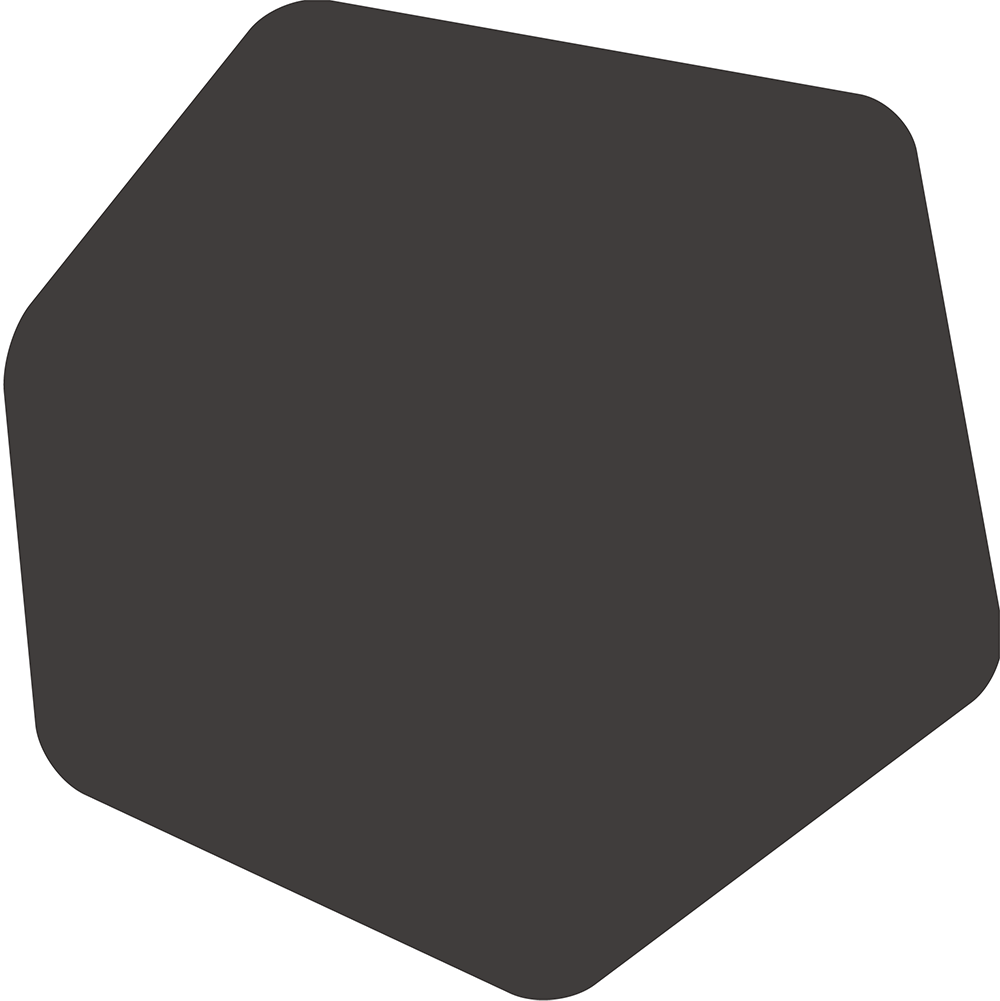
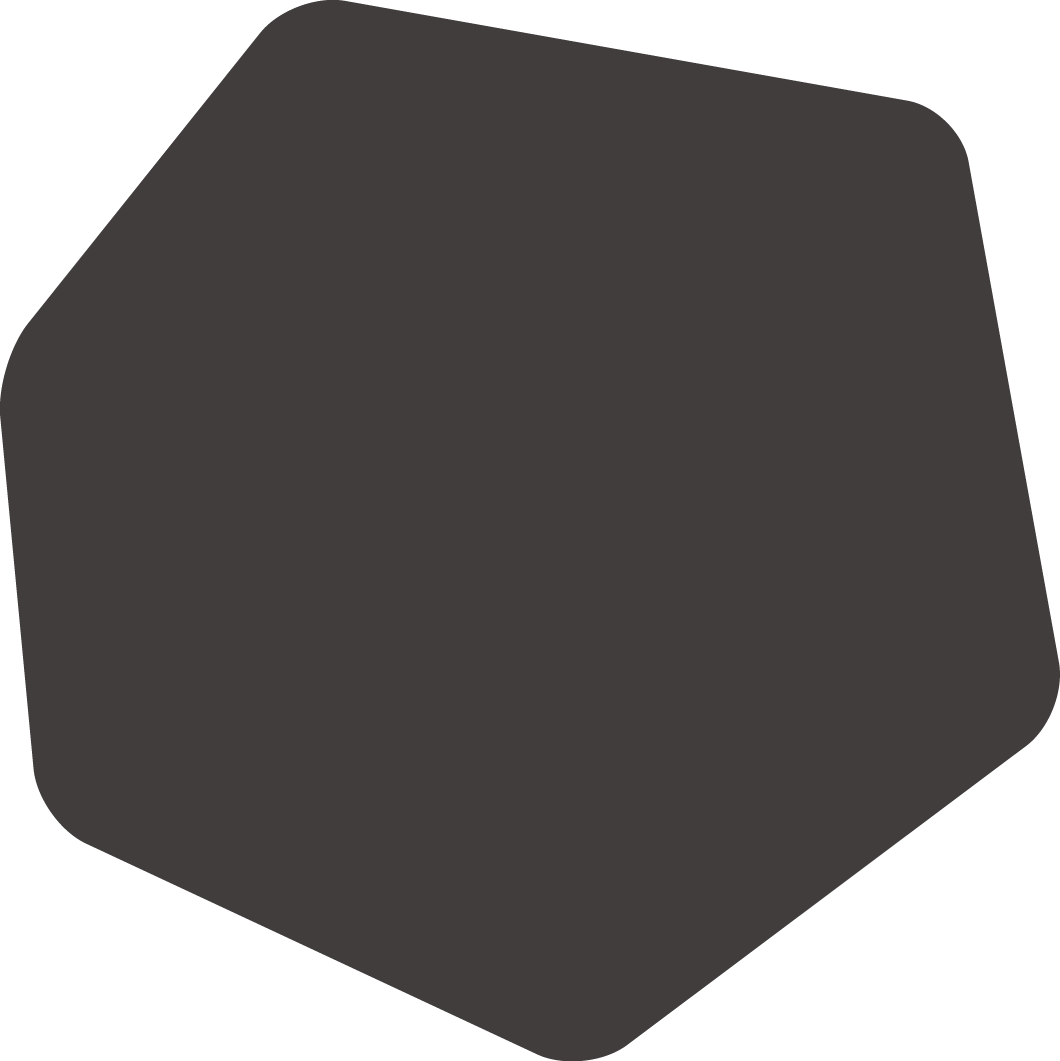
Updated polygons

diff --git a/public/assets/css/main.less b/public/assets/css/main.less
@@ -186,9 +186,9 @@ h2 {
     }
     &.polygon-2 {
       background: url('../img/polygon-2.png') no-repeat;
-      background-size: 500px 500px;
-      width: 500px;
-      height: 500px;
+      background-size: 530px 530px;
+      width: 530px;
+      height: 530px;
       margin-top: -50px;
       margin-left: 25px;
       h3 {
@@ -222,9 +222,9 @@ h2 {
     }
     &.polygon-4 {
       background: url('../img/polygon-4.png') no-repeat;
-      background-size: 476px 476px;
-      width: 476px;
-      height: 476px;
+      background-size: 457px 404px;
+      width: 457px;
+      height: 404px;
       margin-top: -30px;
       margin-left: 15px;
       h3 {

diff --git a/public/assets/css/main.css b/public/assets/css/main.css
@@ -163,9 +163,9 @@ h2 {
 }
 .polygons .polygon.polygon-2 {
   background: url('../img/polygon-2.png') no-repeat;
-  background-size: 500px 500px;
-  width: 500px;
-  height: 500px;
+  background-size: 530px 530px;
+  width: 530px;
+  height: 530px;
   margin-top: -50px;
   margin-left: 25px;
 }
@@ -201,9 +201,9 @@ h2 {
 }
 .polygons .polygon.polygon-4 {
   background: url('../img/polygon-4.png') no-repeat;
-  background-size: 476px 476px;
-  width: 476px;
-  height: 476px;
+  background-size: 457px 404px;
+  width: 457px;
+  height: 404px;
   margin-top: -30px;
   margin-left: 15px;
 }
